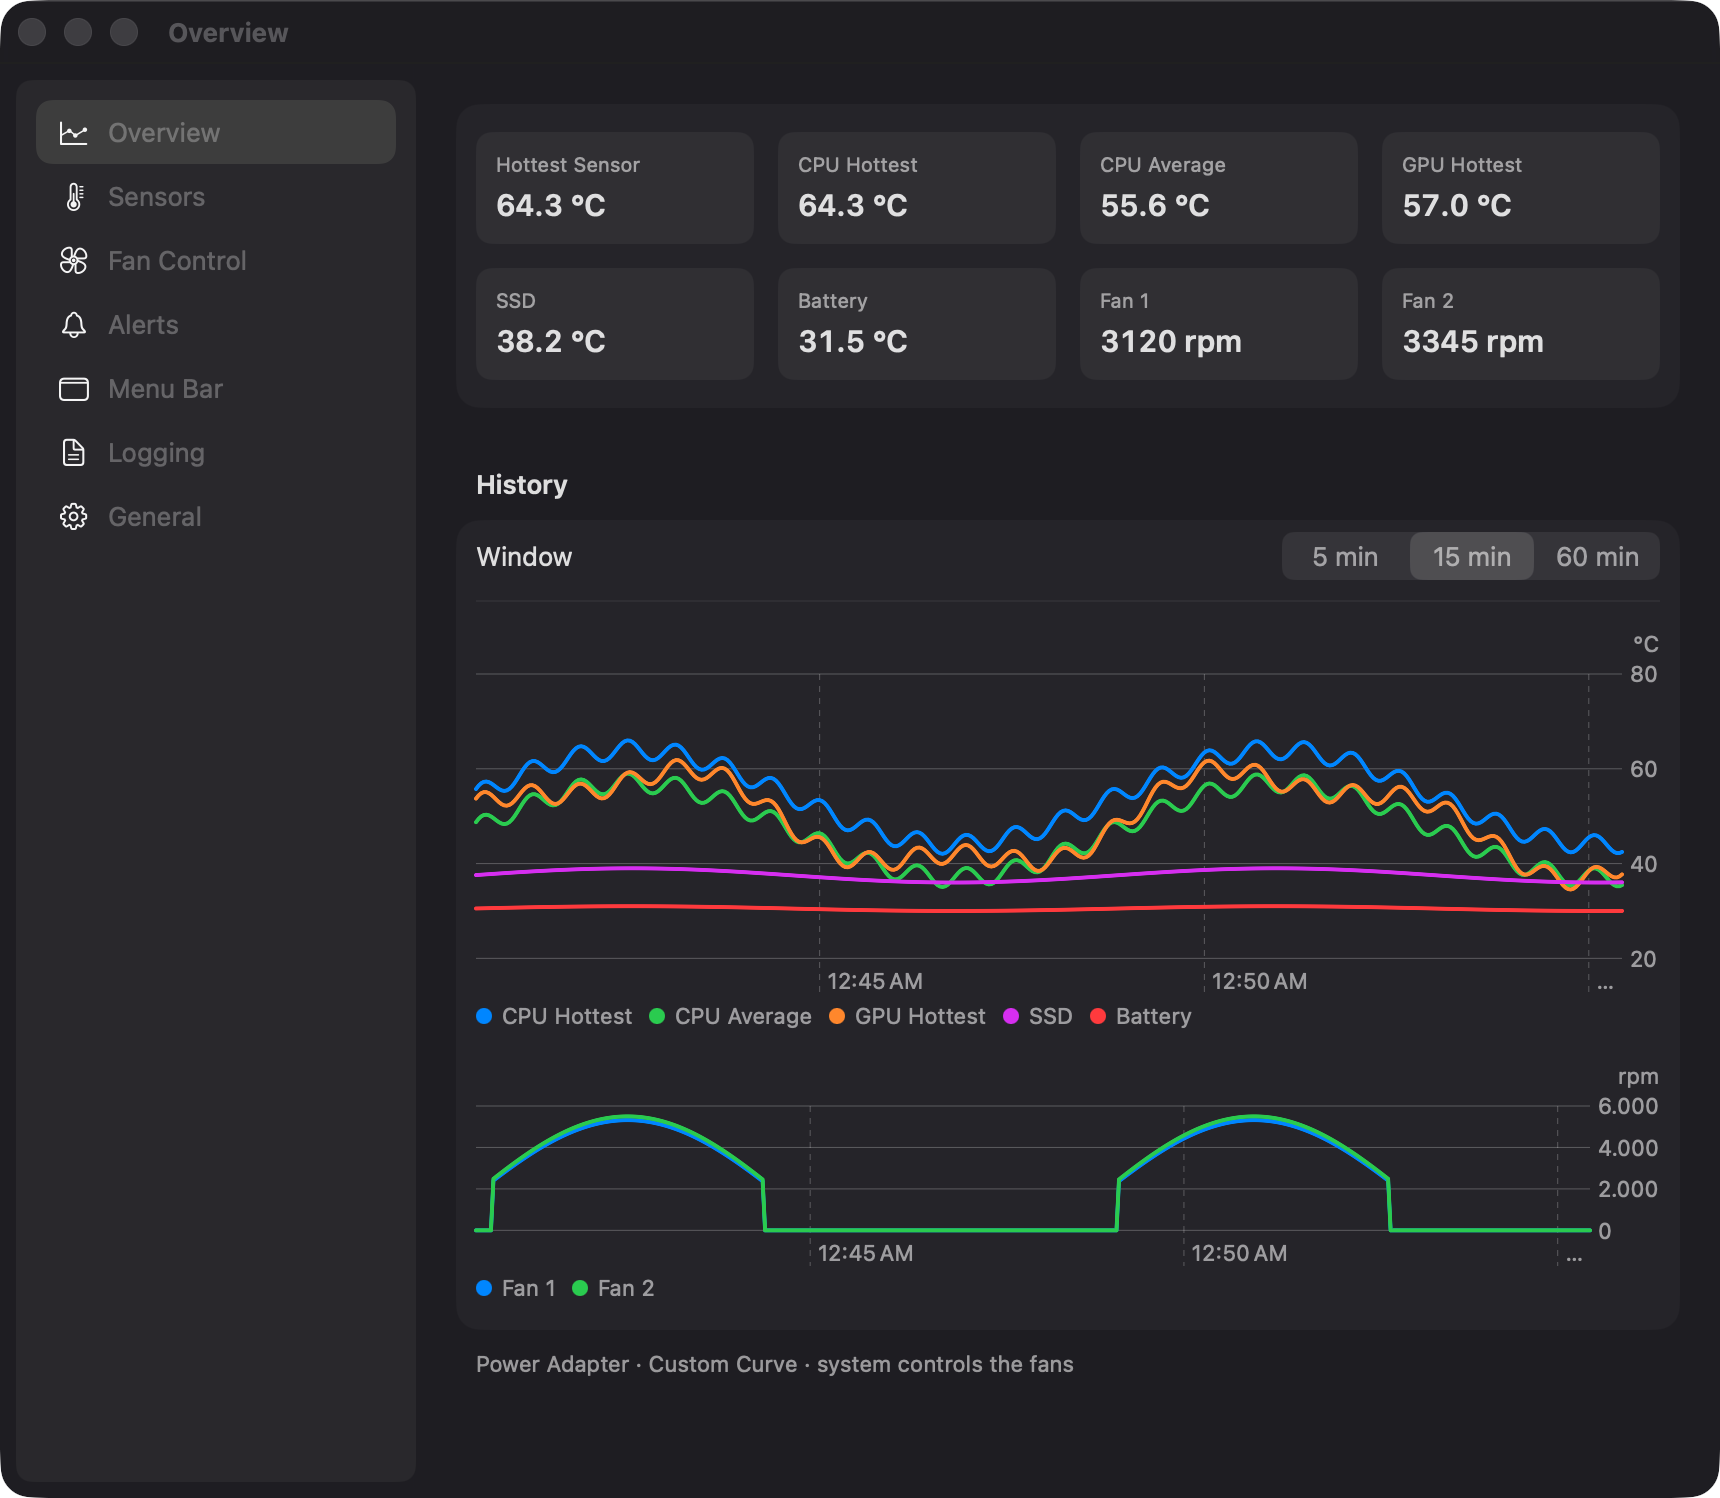
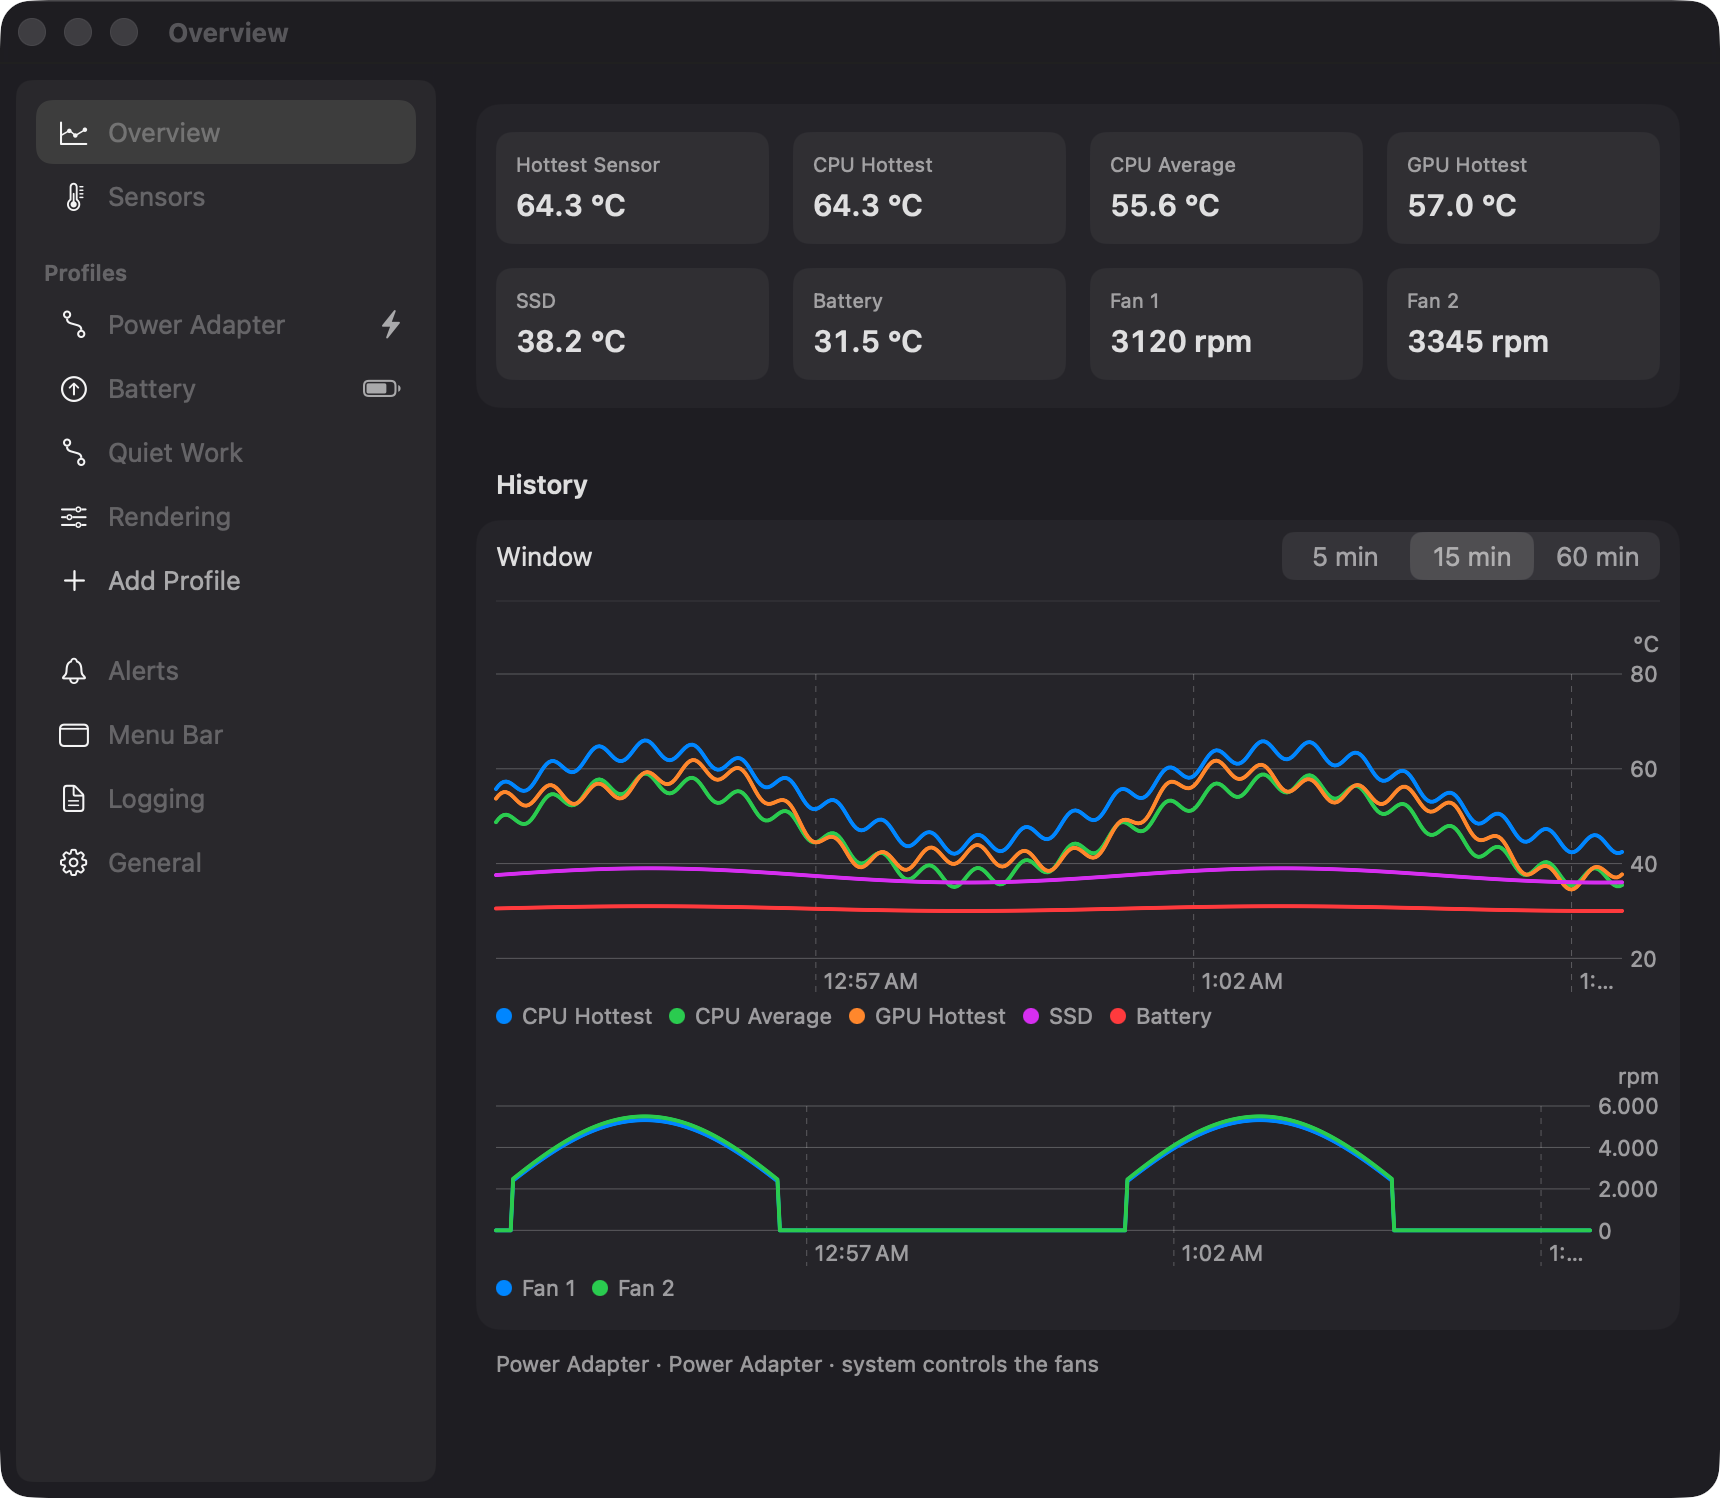
chore: document profiles and popover in readme with new screenshots

diff --git a/README.md b/README.md
@@ -30,8 +30,9 @@
   - **Auto Boost**: rules like "when CPU Hottest reaches 65 °C, run fans at 100%". The fastest active rule wins, with a configurable ramp time and release hysteresis.
   - **Custom Curve**: a temperature-to-speed curve on any sensor. 0% hands control back to macOS so fans can still idle.
   - **Manual**: a fixed speed.
-- **Power source profiles**: separate fan settings on battery and on the power adapter, switched automatically.
-- **Menu bar**: any mix of icon, two temperatures and fan speed.
+- **Profiles**: create, name, duplicate and delete as many fan profiles as you like. Assign one to the power adapter and one to battery for automatic switching, or pick any profile from the menu bar until the power source changes.
+- **Menu bar**: any mix of icon, two temperatures and fan speed in the status item.
+- **Popover**: choose what it shows, from an ordered list of temperatures, a mini chart, fan speeds and the profile picker. A manual profile gets a speed slider right in the popover.
 - **History**: temperature and fan speed charts over the last 5, 15 or 60 minutes.
 - **Alerts**: notifications when a sensor crosses a threshold, with a repeat cooldown.
 - **CSV logging**: every sensor and fan, at a chosen interval, one file per day.
@@ -40,10 +41,16 @@
 ## Screenshots
 
 <picture>
-  <source media="(prefers-color-scheme: dark)" srcset="docs/screenshots/fans-dark.png">
-  <img src="docs/screenshots/fans-light.png" alt="Fan control with a custom curve" width="880">
+  <source media="(prefers-color-scheme: dark)" srcset="docs/screenshots/profile-dark.png">
+  <img src="docs/screenshots/profile-light.png" alt="A fan profile with a custom curve" width="880">
 </picture>
-<p align="center"><sub>Fan control</sub></p>
+<p align="center"><sub>Profiles</sub></p>
+
+<picture>
+  <source media="(prefers-color-scheme: dark)" srcset="docs/screenshots/menu-bar-dark.png">
+  <img src="docs/screenshots/menu-bar-light.png" alt="Menu bar and popover settings" width="880">
+</picture>
+<p align="center"><sub>Menu bar and popover</sub></p>
 
 <picture>
   <source media="(prefers-color-scheme: dark)" srcset="docs/screenshots/sensors-dark.png">
@@ -74,7 +81,7 @@
 
 ## Settings location
 
-- Settings are stored as JSON at `~/Library/Application Support/Tuuli/settings.json`.
+- Settings and profiles are stored as JSON at `~/Library/Application Support/Tuuli/settings.json`.
 - CSV logs go to `~/Documents` by default, as `Tuuli-<date>.csv`.
 
 ## Build from source
